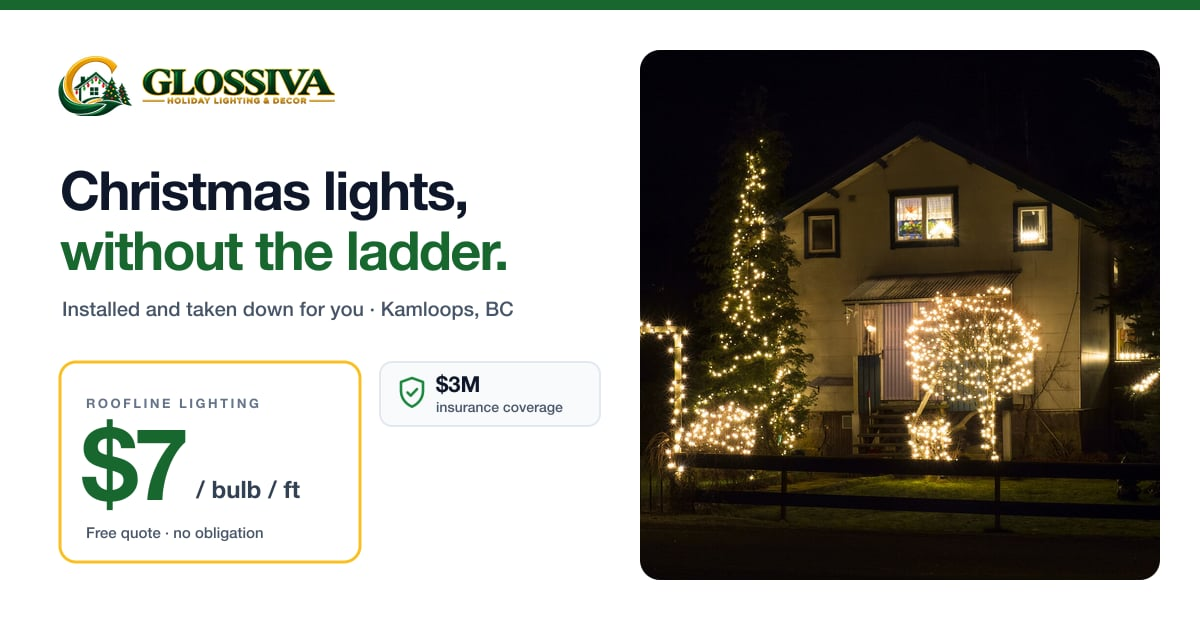
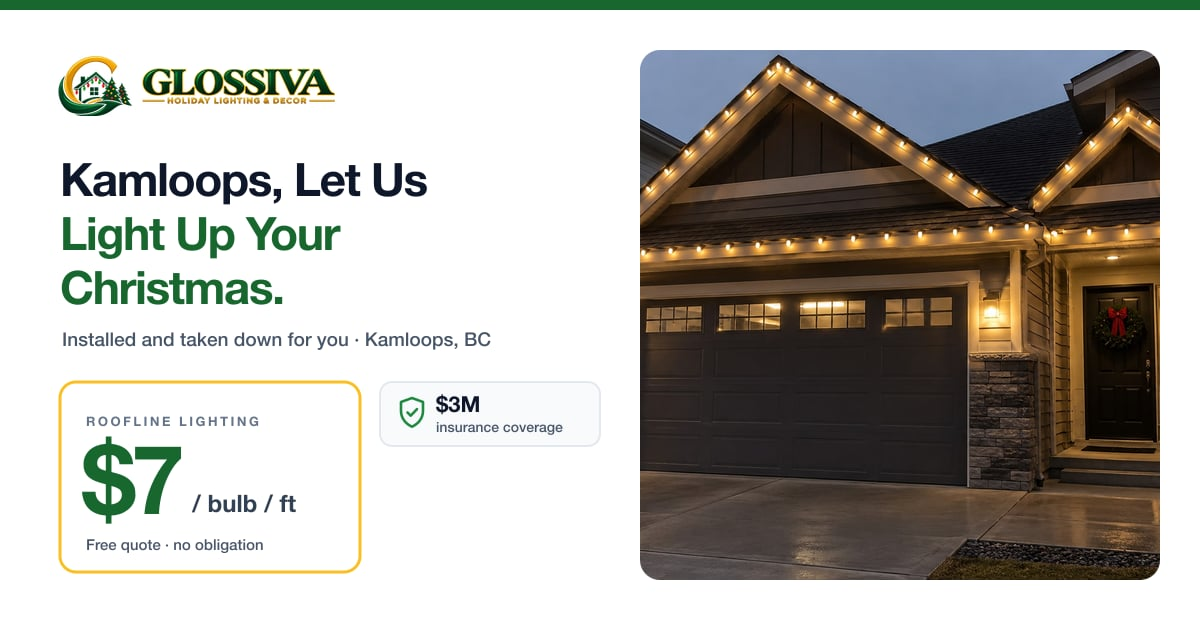
New hero tagline and owner photo on Signature Home
- Hero headline: "Kamloops, Let Us Light Up Your Christmas."
- Signature Home card uses the owner's photo (C9 rooflines + wreath),
  replacing the public-domain wreath photo
- Share image updated to the new tagline and photo

diff --git a/src/data/packages.ts b/src/data/packages.ts
@@ -2,7 +2,7 @@ import type { ImageMetadata } from 'astro';
 import customDisplay from '../assets/photos/custom-display.jpg';
 import rooflineGable from '../assets/photos/roofline-gable.jpg';
 import treesBushes from '../assets/photos/trees-bushes-home.jpg';
-import wreathDoor from '../assets/photos/wreath-door.jpg';
+import signatureHome from '../assets/photos/signature-home.jpg';
 
 export type PackageId = 'classic' | 'signature' | 'christmas' | 'custom';
 
@@ -10,7 +10,7 @@ export interface Package {
   id: PackageId;
   name: string;
   tier: string;
-  /** Public-domain (CC0) photo; swap for a photo of your own install later. */
+  /** Card photo (owner-supplied or public-domain CC0). */
   image: ImageMetadata;
   imageAlt: string;
   /** Large price line, e.g. "$7", plus the small unit text next to it. */
@@ -33,8 +33,8 @@ export const packages: Package[] = [
     id: 'signature',
     name: 'Signature Home',
     tier: 'Enhanced',
-    image: wreathDoor,
-    imageAlt: 'Front door decorated with a Christmas wreath',
+    image: signatureHome,
+    imageAlt: 'Home with warm white C9 lights along the rooflines and a wreath on the front door',
     price: { main: '$7', unit: '/ ft + wreaths' },
     features: ['Roofline lighting', 'Festive wreaths'],
   },

diff --git a/README.md b/README.md
@@ -37,7 +37,7 @@ automatically.
 | File | Where it appears |
 |---|---|
 | `hero-blur.jpg` | Hero background (pre-blurred; replace with any blurred photo) |
-| `roofline-gable.jpg`, `wreath-door.jpg`, `trees-bushes-home.jpg`, `custom-display.jpg` | Package cards |
+| `roofline-gable.jpg`, `signature-home.jpg` (owner's photo), `trees-bushes-home.jpg`, `custom-display.jpg` | Package cards |
 | `step-quote.jpg`, `step-design.jpg`, `step-install.jpg`, `step-takedown.jpg` | How it works cards |
 | `insured-shield.jpg` (owner's image), `snowy-house.jpg`, `roofline-street.jpg` | Why Glossiva cards |
 | Gallery list in `src/data/gallery.ts` | Gallery |
